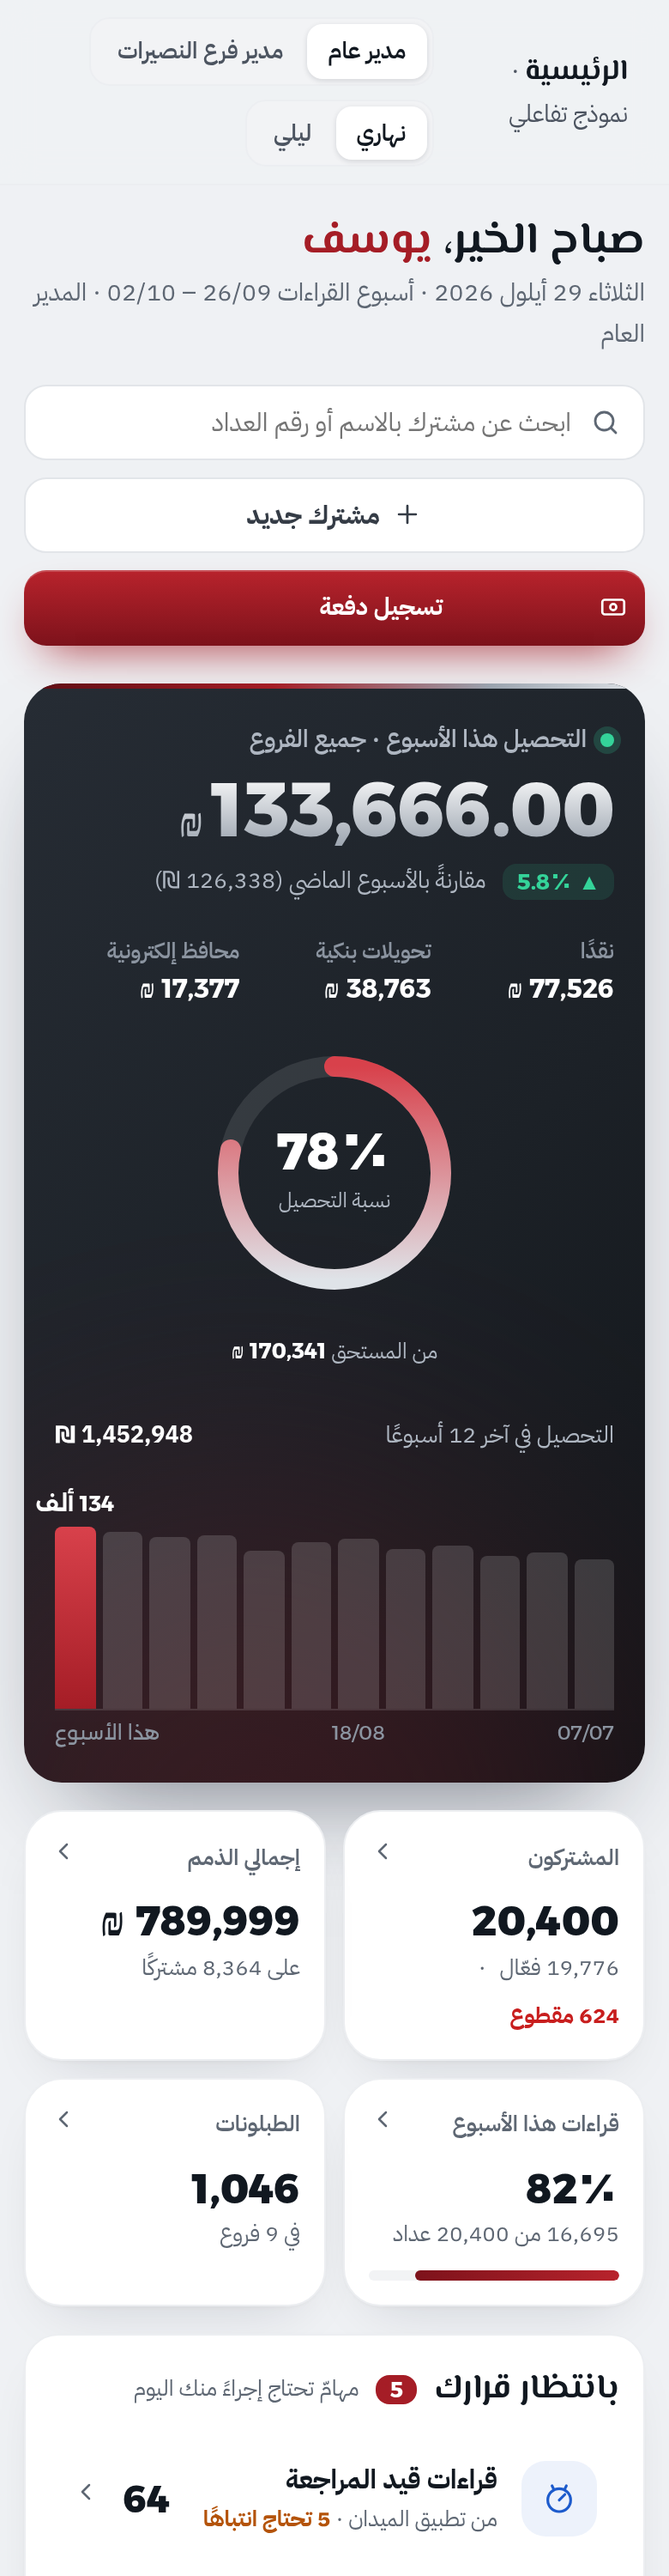
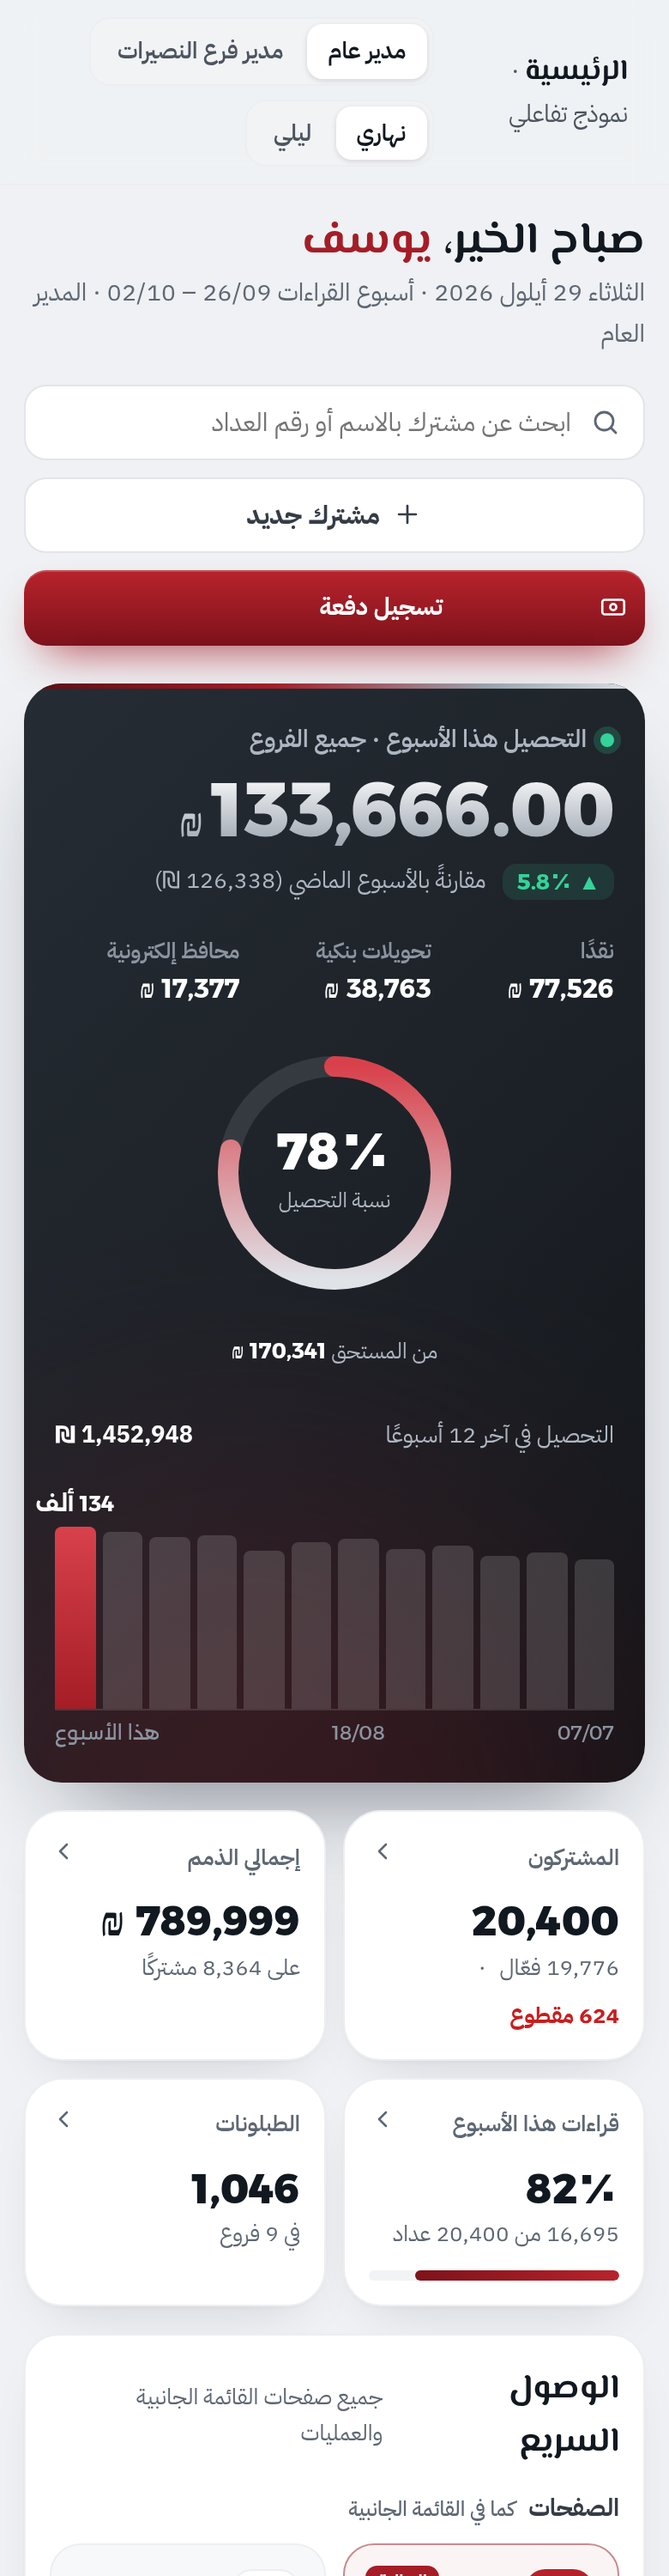
Home page: quick access mirrors every sidebar link and sits under the KPIs
Claude-Session: https://claude.ai/code/session_01XCSA7vHgQhRJfaWcSo7nax

diff --git a/AF-PowerCollect-الرئيسية.html b/AF-PowerCollect-الرئيسية.html
@@ -421,15 +421,25 @@ a{color:inherit;text-decoration:none}
 
 /* quick access */
 .qa{margin-top:16px}
-.qg{display:grid;grid-template-columns:repeat(6,1fr);gap:10px}
-.q{display:flex;flex-direction:column;gap:10px;padding:14px;border-radius:18px;border:1px solid var(--line2);background:var(--raised);transition:.18s;min-width:0}
+.qg{display:grid;grid-template-columns:repeat(7,1fr);gap:10px}
+.q{position:relative;display:flex;flex-direction:column;gap:10px;padding:14px;border-radius:18px;border:1px solid var(--line2);background:var(--raised);transition:.18s;min-width:0}
 .q:hover{background:var(--surface);border-color:color-mix(in srgb,var(--brand) 40%,var(--line));transform:translateY(-2px);box-shadow:var(--shadow)}
 .q:hover .qi{background:linear-gradient(180deg,var(--brand-hi),var(--brand-lo));color:#fff}
 .q .qi{width:40px;height:40px;border-radius:12px;display:grid;place-items:center;background:var(--surface);border:1px solid var(--line2);color:var(--ink2);transition:.18s}
 .q .qi svg{width:19px;height:19px}
 .q b{font-size:14.5px}
 .q small{display:block;font-size:12px;color:var(--faint);margin-top:-8px}
-.qh{margin:18px 0 8px;font-size:13px;font-weight:700;color:var(--faint)}
+.qh{margin:18px 0 8px;font-size:14px;font-weight:700;color:var(--ink2);display:flex;align-items:center;gap:8px}
+.qh span{font-size:12px;font-weight:500;color:var(--faint)}
+.q .tg{position:absolute;top:12px;inset-inline-end:12px;font-style:normal;font-size:11px;font-weight:700;border-radius:7px;padding:1px 7px;background:var(--sunken);color:var(--faint);display:inline-flex;align-items:center;gap:3px}
+.q .tg svg{width:11px;height:11px}
+.q .tg.here{background:var(--brand);color:#fff}
+.q.on{border-color:color-mix(in srgb,var(--brand) 45%,var(--line));background:color-mix(in srgb,var(--brand) 5%,var(--surface))}
+.q.on .qi{background:linear-gradient(180deg,var(--brand-hi),var(--brand-lo));color:#fff;border:0}
+.q.off{opacity:.6;border-style:dashed;cursor:default}
+.q.off:hover{transform:none;box-shadow:none;background:var(--raised);border-color:var(--line2)}
+.q.off:hover .qi{background:var(--surface);color:var(--ink2)}
+.q.lkd .tg.lk{color:var(--warn);background:var(--warn-t)}
 .qh:first-of-type{margin-top:4px}
 .notes{margin-top:18px;border:1px dashed var(--line);border-radius:18px;padding:4px 18px;background:var(--surface);font-size:14.5px;color:var(--ink2)}
 .notes summary{cursor:pointer;font-weight:700;padding:10px 0}
@@ -475,6 +485,7 @@ a{color:inherit;text-decoration:none}
   </div>
   <section class="hero rise" style="animation-delay:.05s" id="hero"></section>
   <div class="kg" id="kg"></div>
+  <section class="pn qa rise" style="animation-delay:.12s"><div class="ph2"><h2>الوصول السريع</h2><p>جميع صفحات القائمة الجانبية والعمليات</p></div><div id="qa"></div></section>
   <div class="g2">
     <section class="pn rise" style="animation-delay:.15s"><div class="ph2"><h2>بانتظار قرارك <span class="c" id="tc"></span></h2><p>مهامّ تحتاج إجراءً منك اليوم</p></div><div id="tasks"></div></section>
     <section class="pn rise" style="animation-delay:.2s"><div class="ph2"><h2 id="rgT"></h2><a class="more" href="AF-PowerCollect-مراجعة-القراءات.html">المراجعة<span id="mI1"></span></a></div><div class="prg" id="prg"></div><div class="lgd"><span><i style="background:var(--brand)"></i>نسبة القراءات المُدخلة هذا الأسبوع</span><span><i style="background:var(--warn)"></i>أقل من 60٪: متأخرة</span></div></section>
@@ -484,7 +495,6 @@ a{color:inherit;text-decoration:none}
     <section class="pn rise" style="animation-delay:.3s"><div class="ph2"><h2>آخر العمليات</h2><a class="more" href="AF-PowerCollect-السجل-المالي.html">السجل المالي<span id="mI3"></span></a></div><div class="fd" id="feed"></div></section>
     <section class="pn rise" style="animation-delay:.35s"><div class="ph2"><h2>أعلى الذمم المستحقة</h2><a class="more" href="AF-PowerCollect-جدول-المشتركين.html">كل المشتركين<span id="mI4"></span></a></div><div id="debt"></div></section>
   </div>
-  <section class="pn qa rise" style="animation-delay:.4s"><div class="ph2"><h2>الوصول السريع</h2><p>جميع صفحات النظام</p></div><div id="qa"></div></section>
   <details class="notes">
     <summary>ملاحظات للمبرمج</summary>
     <ul>
@@ -502,7 +512,7 @@ a{color:inherit;text-decoration:none}
 <div class="toast" id="toast"><span class="ok" id="tIc"></span><span id="tmsg"></span><button id="undo" hidden>تراجع</button></div>
 <script>
 const $=s=>document.querySelector(s),$$=s=>[...document.querySelectorAll(s)];
-const P={search:'<circle cx="11" cy="11" r="7"/><path d="m20 20-3.5-3.5"/>',go:'<path d="m15 18-6-6 6-6"/>',plus:'<path d="M12 5v14M5 12h14"/>',cash:'<rect x="3" y="6" width="18" height="12" rx="2"/><circle cx="12" cy="12" r="2.5"/>',users:'<circle cx="9" cy="8" r="3.5"/><path d="M2.5 20c1-3.5 3.5-5.5 6.5-5.5s5.5 2 6.5 5.5"/><path d="M16 4.5a3.5 3.5 0 0 1 0 7M18.5 14.5c1.6.7 2.6 2.4 3 5.5"/>',debt:'<path d="M12 3v18M7 7.5c0-1.9 2.2-3 5-3s5 1.1 5 3-2.2 2.7-5 3.5-5 1.6-5 3.5 2.2 3 5 3 5-1.1 5-3"/>',read:'<circle cx="12" cy="13" r="8"/><path d="M12 13l4-4M8 5l-1-2M16 5l1-2"/>',box:'<rect x="4" y="3" width="16" height="18" rx="2"/><path d="M8 8h8M8 12h8M8 16h4"/>',check:'<path d="m5 12.5 4.5 4.5L19 7"/>',alert:'<path d="M12 3 2 20h20z"/><path d="M12 10v4M12 17h.01"/>',hand:'<path d="M7 11V6a2 2 0 0 1 4 0v5M11 10V4a2 2 0 0 1 4 0v6M15 10V6a2 2 0 0 1 4 0v8a7 7 0 0 1-7 7h-1a6 6 0 0 1-5-3l-3-5a2 2 0 0 1 3-2l2 2"/>',cut:'<path d="M18.4 6.6a9 9 0 1 1-12.8 0M12 3v9"/>',file:'<path d="M14 3H6v18h12V7z"/><path d="M14 3v4h4M9 12h6M9 16h6"/>',minus:'<path d="M5 12h14"/>',tag:'<path d="M3 12V4h8l10 10-8 8z"/><circle cx="7.5" cy="8" r="1.5"/>',map:'<path d="M9 4 3 6.5v13.5l6-2.5 6 2.5 6-2.5V4l-6 2.5z"/><path d="M9 4v13.5M15 6.5V20"/>',branch:'<path d="M12 21s-7-6.2-7-11.5A7 7 0 0 1 19 9.5C19 14.8 12 21 12 21z"/><circle cx="12" cy="9.5" r="2.5"/>',chart:'<path d="M4 20V10M10 20V4M16 20v-7M22 20H2"/>',user:'<circle cx="12" cy="8" r="4"/><path d="M4 21c1.5-4 4.5-6 8-6s6.5 2 8 6"/>',lock:'<rect x="4" y="10" width="16" height="11" rx="2"/><path d="M8 10V7a4 4 0 0 1 8 0v3"/>',ledger:'<path d="M5 4h14v16H5z"/><path d="M9 4v16M12 8h4M12 12h4"/>',bolt:'<path d="M13 2 4 14h7l-1 8 9-12h-7z"/>',phone:'<rect x="6" y="2" width="12" height="20" rx="3"/><path d="M11 18h2"/>',shield:'<path d="M12 3 4 6v6c0 5 3.5 8 8 9 4.5-1 8-4 8-9V6z"/><path d="m9 12 2 2 4-4"/>',breaker:'<rect x="6" y="3" width="12" height="18" rx="2"/><path d="M10 8h4v5h-4z"/>',pin:'<path d="M12 21s-7-6.2-7-11.5A7 7 0 0 1 19 9.5C19 14.8 12 21 12 21z"/>'};
+const P={search:'<circle cx="11" cy="11" r="7"/><path d="m20 20-3.5-3.5"/>',go:'<path d="m15 18-6-6 6-6"/>',plus:'<path d="M12 5v14M5 12h14"/>',cash:'<rect x="3" y="6" width="18" height="12" rx="2"/><circle cx="12" cy="12" r="2.5"/>',users:'<circle cx="9" cy="8" r="3.5"/><path d="M2.5 20c1-3.5 3.5-5.5 6.5-5.5s5.5 2 6.5 5.5"/><path d="M16 4.5a3.5 3.5 0 0 1 0 7M18.5 14.5c1.6.7 2.6 2.4 3 5.5"/>',debt:'<path d="M12 3v18M7 7.5c0-1.9 2.2-3 5-3s5 1.1 5 3-2.2 2.7-5 3.5-5 1.6-5 3.5 2.2 3 5 3 5-1.1 5-3"/>',read:'<circle cx="12" cy="13" r="8"/><path d="M12 13l4-4M8 5l-1-2M16 5l1-2"/>',box:'<rect x="4" y="3" width="16" height="18" rx="2"/><path d="M8 8h8M8 12h8M8 16h4"/>',check:'<path d="m5 12.5 4.5 4.5L19 7"/>',alert:'<path d="M12 3 2 20h20z"/><path d="M12 10v4M12 17h.01"/>',hand:'<path d="M7 11V6a2 2 0 0 1 4 0v5M11 10V4a2 2 0 0 1 4 0v6M15 10V6a2 2 0 0 1 4 0v8a7 7 0 0 1-7 7h-1a6 6 0 0 1-5-3l-3-5a2 2 0 0 1 3-2l2 2"/>',cut:'<path d="M18.4 6.6a9 9 0 1 1-12.8 0M12 3v9"/>',file:'<path d="M14 3H6v18h12V7z"/><path d="M14 3v4h4M9 12h6M9 16h6"/>',minus:'<path d="M5 12h14"/>',tag:'<path d="M3 12V4h8l10 10-8 8z"/><circle cx="7.5" cy="8" r="1.5"/>',map:'<path d="M9 4 3 6.5v13.5l6-2.5 6 2.5 6-2.5V4l-6 2.5z"/><path d="M9 4v13.5M15 6.5V20"/>',branch:'<path d="M12 21s-7-6.2-7-11.5A7 7 0 0 1 19 9.5C19 14.8 12 21 12 21z"/><circle cx="12" cy="9.5" r="2.5"/>',chart:'<path d="M4 20V10M10 20V4M16 20v-7M22 20H2"/>',user:'<circle cx="12" cy="8" r="4"/><path d="M4 21c1.5-4 4.5-6 8-6s6.5 2 8 6"/>',lock:'<rect x="4" y="10" width="16" height="11" rx="2"/><path d="M8 10V7a4 4 0 0 1 8 0v3"/>',ledger:'<path d="M5 4h14v16H5z"/><path d="M9 4v16M12 8h4M12 12h4"/>',bolt:'<path d="M13 2 4 14h7l-1 8 9-12h-7z"/>',phone:'<rect x="6" y="2" width="12" height="20" rx="3"/><path d="M11 18h2"/>',shield:'<path d="M12 3 4 6v6c0 5 3.5 8 8 9 4.5-1 8-4 8-9V6z"/><path d="m9 12 2 2 4-4"/>',breaker:'<rect x="6" y="3" width="12" height="18" rx="2"/><path d="M10 8h4v5h-4z"/>',grid:'<rect x="3" y="3" width="7" height="7" rx="2"/><rect x="14" y="3" width="7" height="7" rx="2"/><rect x="3" y="14" width="7" height="7" rx="2"/><rect x="14" y="14" width="7" height="7" rx="2"/>',cal:'<rect x="3" y="5" width="18" height="16" rx="2"/><path d="M3 10h18M8 3v4M16 3v4"/>',pin:'<path d="M12 21s-7-6.2-7-11.5A7 7 0 0 1 19 9.5C19 14.8 12 21 12 21z"/>'};
 const ic=(k,s=18)=>`<svg class="i" width="${s}" height="${s}" viewBox="0 0 24 24" fill="none" stroke="currentColor" stroke-width="1.9" stroke-linecap="round" stroke-linejoin="round">${P[k]}</svg>`;
 const n0=v=>Math.round(v).toLocaleString('en-US'),n2=v=>v.toLocaleString('en-US',{minimumFractionDigits:2,maximumFractionDigits:2});
 const F='AF-PowerCollect-';
@@ -570,11 +580,13 @@ function feed(){const adm=ROLE==='admin';
 function debt(){const L=ROLE==='admin'?DEB:DEB.filter((_,i)=>i!==1);
   $('#debt').innerHTML=L.slice(0,5).map(([n,v,st,b])=>{const ini=n.split(' ').filter(w=>w!=='أبو'&&w!=='عبد').slice(0,2).map(w=>w.replace('ال','')[0]).join('');
    return`<a class="dr" href="${F}كشف-الحساب.html"><span class="av">${ini}</span><span><b>${n}</b><small>الطبلون ${b} · ${st==='مقطوع'?'<span class="cut" style="color:var(--danger);font-weight:700">مقطوع</span>':'فعّال'}</small></span><span class="am"><b>${n0(v)} ₪</b><small>عليه</small></span></a>`}).join('')}
-const Q=[['العمليات اليومية',[['تسجيل-دفعة','cash','تسجيل دفعة','مع قراءة الإشعار'],['مراجعة-القراءات','read','مراجعة القراءات','والدفعات الميدانية'],['جدول-المشتركين','users','المشتركون','البحث والتصفية'],['ملف-المشترك','user','ملف المشترك','البيانات والحركات'],['كشف-الحساب','ledger','كشف الحساب','الحركات والرصيد'],['تطبيق-الميدان','phone','تطبيق الميدان','القارئ والمحصّل']]],
- ['الحسابات',[['إضافة-خصم','minus','إضافة خصم','لمرة أو دائم'],['إضافة-تحميل','plus','إضافة تحميل','غرامة أو تسوية'],['السجل-المالي','file','السجل المالي','كل الحركات'],['أداء-الفروع','chart','أداء الفروع','التحصيل والمقارنة'],['التعرفات','tag','التعرفات','الأسعار والشرائح']]],
- ['الشبكة والإعدادات',[['الطبلونات','box','الطبلونات','الخريطة والمناطق'],['القواطع','breaker','القواطع','حسب الطبلون'],['الفروع','branch','الفروع','9 فروع'],['المحافظات','map','المحافظات والمناطق','التقسيم الجغرافي'],['المستخدمون','user','المستخدمون','الحسابات والأدوار'],['الصلاحيات','shield','الصلاحيات','حسب الدور']]]];
-function qa(){const adm=ROLE==='admin',hide=['الفروع','المحافظات','الصلاحيات','التعرفات','أداء-الفروع'];
-  $('#qa').innerHTML=Q.map(([h,l])=>{const v=l.filter(x=>adm||!hide.includes(x[0]));return v.length?`<div class="qh">${h}</div><div class="qg">${v.map(([f,i,t,s])=>`<a class="q" href="${F+f}.html"><span class="qi">${ic(i,19)}</span><b>${t}</b><small>${s}</small></a>`).join('')}</div>`:''}).join('')}
+const Q=[['الصفحات','كما في القائمة الجانبية',[['الرئيسية','grid','الرئيسية','أنت هنا',0,1],['السجل-المالي','ledger','السجل المالي','كل الحركات المالية'],['أداء-الفروع','chart','أداء الفروع','التحصيل والمقارنة',1],['جدول-المشتركين','users','المشتركون','البحث والتصفية'],['مراجعة-القراءات','read','القراءات','المراجعة والاعتماد'],['المستخدمون','user','المستخدمون','الحسابات والأدوار']]],
+ ['الإعدادات','كما في القائمة الجانبية',[['الفروع','branch','الفروع','9 فروع',1],['التعرفات','tag','التعرفات','الأسعار والشرائح',1],['القواطع','bolt','القواطع','حسب الطبلون'],['الطبلونات','box','الطبلونات','الخريطة والمناطق'],['المحافظات','map','المحافظات','والمناطق الفرعية',1],['الصلاحيات','shield','الصلاحيات','حسب الدور',1],['','cal','مواعيد القراءات','لم تُصمَّم بعد']]],
+ ['عمليات سريعة','من داخل الصفحات',[['تسجيل-دفعة','cash','تسجيل دفعة','مع قراءة الإشعار'],['إضافة-خصم','minus','إضافة خصم','لمرة أو دائم'],['إضافة-تحميل','plus','إضافة تحميل','غرامة أو تسوية'],['كشف-الحساب','file','كشف الحساب','الحركات والرصيد'],['ملف-المشترك','user','ملف المشترك','البيانات والحركات'],['تطبيق-الميدان','phone','تطبيق الميدان','القارئ والمحصّل'],['','lock','الملف الشخصي','لم يُصمَّم بعد']]]];
+function qa(){const adm=ROLE==='admin';
+  $('#qa').innerHTML=Q.map(([h,hs,l])=>`<div class="qh">${h}<span>${hs}</span></div><div class="qg">${l.map(([f,i,t,s,own,here])=>{const lk=!adm&&own,soon=!f;
+   const inner=`<span class="qi">${ic(i,19)}</span><b>${t}</b><small>${s}</small>${here?'<em class="tg here">الحالية</em>':soon?'<em class="tg">قريبًا</em>':lk?`<em class="tg lk">${ic('lock',12)}للمدير العام</em>`:''}`;
+   return soon||here?`<div class="q ${here?'on':'off'}">${inner}</div>`:`<a class="q ${lk?'lkd':''}" href="${F+f}.html">${inner}</a>`}).join('')}</div>`).join('')}
 function all(){const adm=ROLE==='admin';
   $('#hsub').textContent=`الثلاثاء 29 أيلول 2026 · أسبوع القراءات 26/09 – 02/10 · ${adm?'المدير العام':'مدير فرع النصيرات'}`;
   hero();kpis();tasks();prog();table();feed();debt();qa()}
